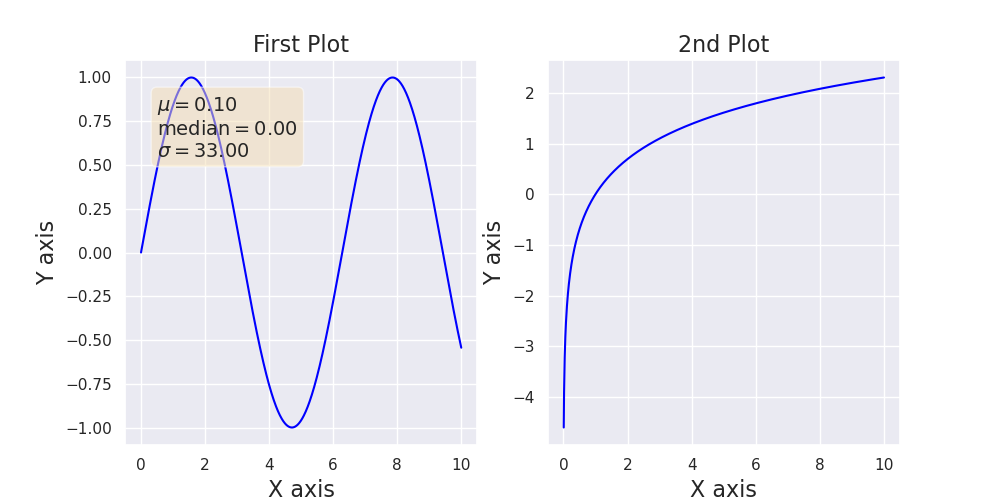
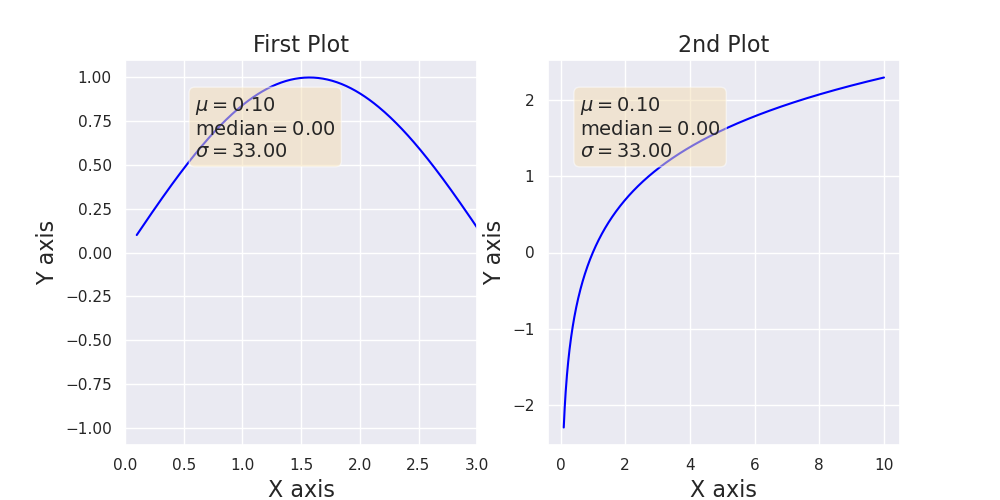
allow axis limits

diff --git a/test.py b/test.py
@@ -17,37 +17,37 @@ from wplotlib import cluster_plot
 #lp.plot_line(x, y, 'Title Here', 'X axis', 'Y axis', imgText=textstr)#, outpath)
 
 
-###	Multiple Line subPlot Example
-#textstr = '\n'.join(( r'$\mu=%.2f$' % (0.1, ), r'$\mathrm{median}=%.2f$' % (0, ), r'$\sigma=%.2f$' % (33, )))
-#x = np.linspace(0, 10, 1000)
-#y = np.sin(x)
-#y2 = np.log(x)
-#
-#lp = lines(figsize=(10,5))
-#lp.plot_line(x, y, 'First Plot', 'X axis', 'Y axis', imgText=textstr, subplot=121)
-#lp.plot_line(x, y2, '2nd Plot', 'X axis', 'Y axis', imgText=textstr, subplot=122)
-#lp.show()		# when making subplots, you have to call show explicitly after all the plots
+##	Multiple Line subPlot Example
+textstr = '\n'.join(( r'$\mu=%.2f$' % (0.1, ), r'$\mathrm{median}=%.2f$' % (0, ), r'$\sigma=%.2f$' % (33, )))
+x = np.linspace(0.1, 10, 1000)
+y = np.sin(x)
+y2 = np.log(x)
+
+lp = lines(figsize=(10,5))
+lp.plot_line(x, y, 'First Plot', 'X axis', 'Y axis', imgText=textstr, subplot=121, xlim=[0,3])
+lp.plot_line(x, y2, '2nd Plot', 'X axis', 'Y axis', imgText=textstr, subplot=122)
+lp.show(save_path='twoSubplots.png') # when making subplots, you have to call show explicitly after all the plots, if you include path, then it will save instead of show
 
 
 
 ##	Heat Map Example
-X1 = np.random.randn(100,2)
-X2 = np.random.randn(100,2) + 5
-X = np.vstack((X1,X2))
-
-Y1 = np.ones(100)
-Y2 = np.zeros(100)
-Y = np.hstack((Y1,Y2))
-
-clf = SpectralClustering(n_clusters=2)
-allocation = clf.fit_predict(X)
-kernel = clf.affinity_matrix_
-axis_label = range(kernel.shape[0])
-hMap = heatMap()
-sorted_kernel = hMap.sort_kernel(kernel, allocation)
-
-hMap.draw_HeatMap(kernel, title='Drawing Unsorted Heat Map', subplot=121)
-hMap.draw_HeatMap(sorted_kernel, title='Drawing Sorted Heat Map')
+#X1 = np.random.randn(100,2)
+#X2 = np.random.randn(100,2) + 5
+#X = np.vstack((X1,X2))
+#
+#Y1 = np.ones(100)
+#Y2 = np.zeros(100)
+#Y = np.hstack((Y1,Y2))
+#
+#clf = SpectralClustering(n_clusters=2)
+#allocation = clf.fit_predict(X)
+#kernel = clf.affinity_matrix_
+#axis_label = range(kernel.shape[0])
+#hMap = heatMap()
+#sorted_kernel = hMap.sort_kernel(kernel, allocation)
+#
+#hMap.draw_HeatMap(kernel, title='Drawing Unsorted Heat Map', subplot=121)
+#hMap.draw_HeatMap(sorted_kernel, title='Drawing Sorted Heat Map')
 
 
 

diff --git a/setup.py b/setup.py
@@ -11,7 +11,7 @@ with open(path.join(this_directory, 'README'), encoding='utf-8') as f:
 setup(
   name = 'wplotlib',         # How you named your package folder (MyLib)
   packages = ['wplotlib'],   # Chose the same as "name"
-  version = '0.07',      # Start with a small number and increase it with every change you make
+  version = '0.08',      # Start with a small number and increase it with every change you make
   license='MIT',        # Chose a license from here: https://help.github.com/articles/licensing-a-repository
   description = 'A library that simplifies some basic plotting.',   # Give a short description about your library
   long_description='A simplified plot library for Chieh',
@@ -19,7 +19,7 @@ setup(
   author = 'Chieh Wu',                   # Type in your name
   author_email = 'chieh.t.wu@gmail.com',      # Type in your E-Mail
   url = 'https://github.com/endsley/wPlotLib.git',   # Provide either the link to your github or to your website
-  download_url = 'https://github.com/endsley/wPlotLib/archive/refs/tags/0.07.tar.gz',    # I explain this later on
+  download_url = 'https://github.com/endsley/wPlotLib/archive/refs/tags/0.08.tar.gz',    # I explain this later on
   keywords = ['plot', 'data'],   # Keywords that define your package best
   include_package_data=False,
   install_requires=[            # I get to this in a second

diff --git a/wplotlib/lines.py b/wplotlib/lines.py
@@ -29,7 +29,7 @@ class lines:
 		self.already_called_plot_line = False
 		plt.figure(figsize=figsize)
 
-	def plot_line(self, X, Y, title, xlabel, ylabel, imgText=None, outpath=None, subplot=None):
+	def plot_line(self, X, Y, title, xlabel, ylabel, imgText=None, outpath=None, subplot=None, xlim=None, ylim=None):
 		"""create a default 2D line plot
 		
 		: X: (float) the values for x-axis
@@ -52,6 +52,8 @@ class lines:
 		self.set_ylabel(ylabel, fontsize=self.yfont)
 		self.add_text(X, Y, imgText)
 
+		if xlim is not None: plt.xlim(xlim)
+		if ylim is not None: plt.ylim(ylim)
 		
 		if subplot is None:
 			if outpath is None: plt.show()
@@ -89,10 +91,9 @@ class lines:
 
 		plt.plot(X,Y, color=color)
 
-	def show(self):
-		#plt.axis('tight')
-		plt.show()
-		#self.already_called_plot_line = False
+	def show(self, save_path=None):
+		if save_path is None: plt.show()
+		else: plt.savefig(save_path)
 
 
 	def plot_line_with_error_area(x, y, error, show=False):

diff --git a/README.md b/README.md
@@ -37,7 +37,9 @@ y2 = np.log(x)
 lp = lines(figsize=(10,5))
 lp.plot_line(x, y, 'First Plot', 'X axis', 'Y axis', imgText=textstr, subplot=121)
 lp.plot_line(x, y2, '2nd Plot', 'X axis', 'Y axis', imgText=textstr, subplot=122)
-lp.show()		# when making subplots, you have to call show explicitly after all the plots
+lp.show(save_path='twoSubplots.png') 
+# when making subplots, you have to call show explicitly after all the plots, if you include path, then it will save instead of show
+
 ```
 ![Image](https://github.com/endsley/wPlotLib/blob/main/wplotlib/imgs/subplot_lines.png?raw=true)
 
